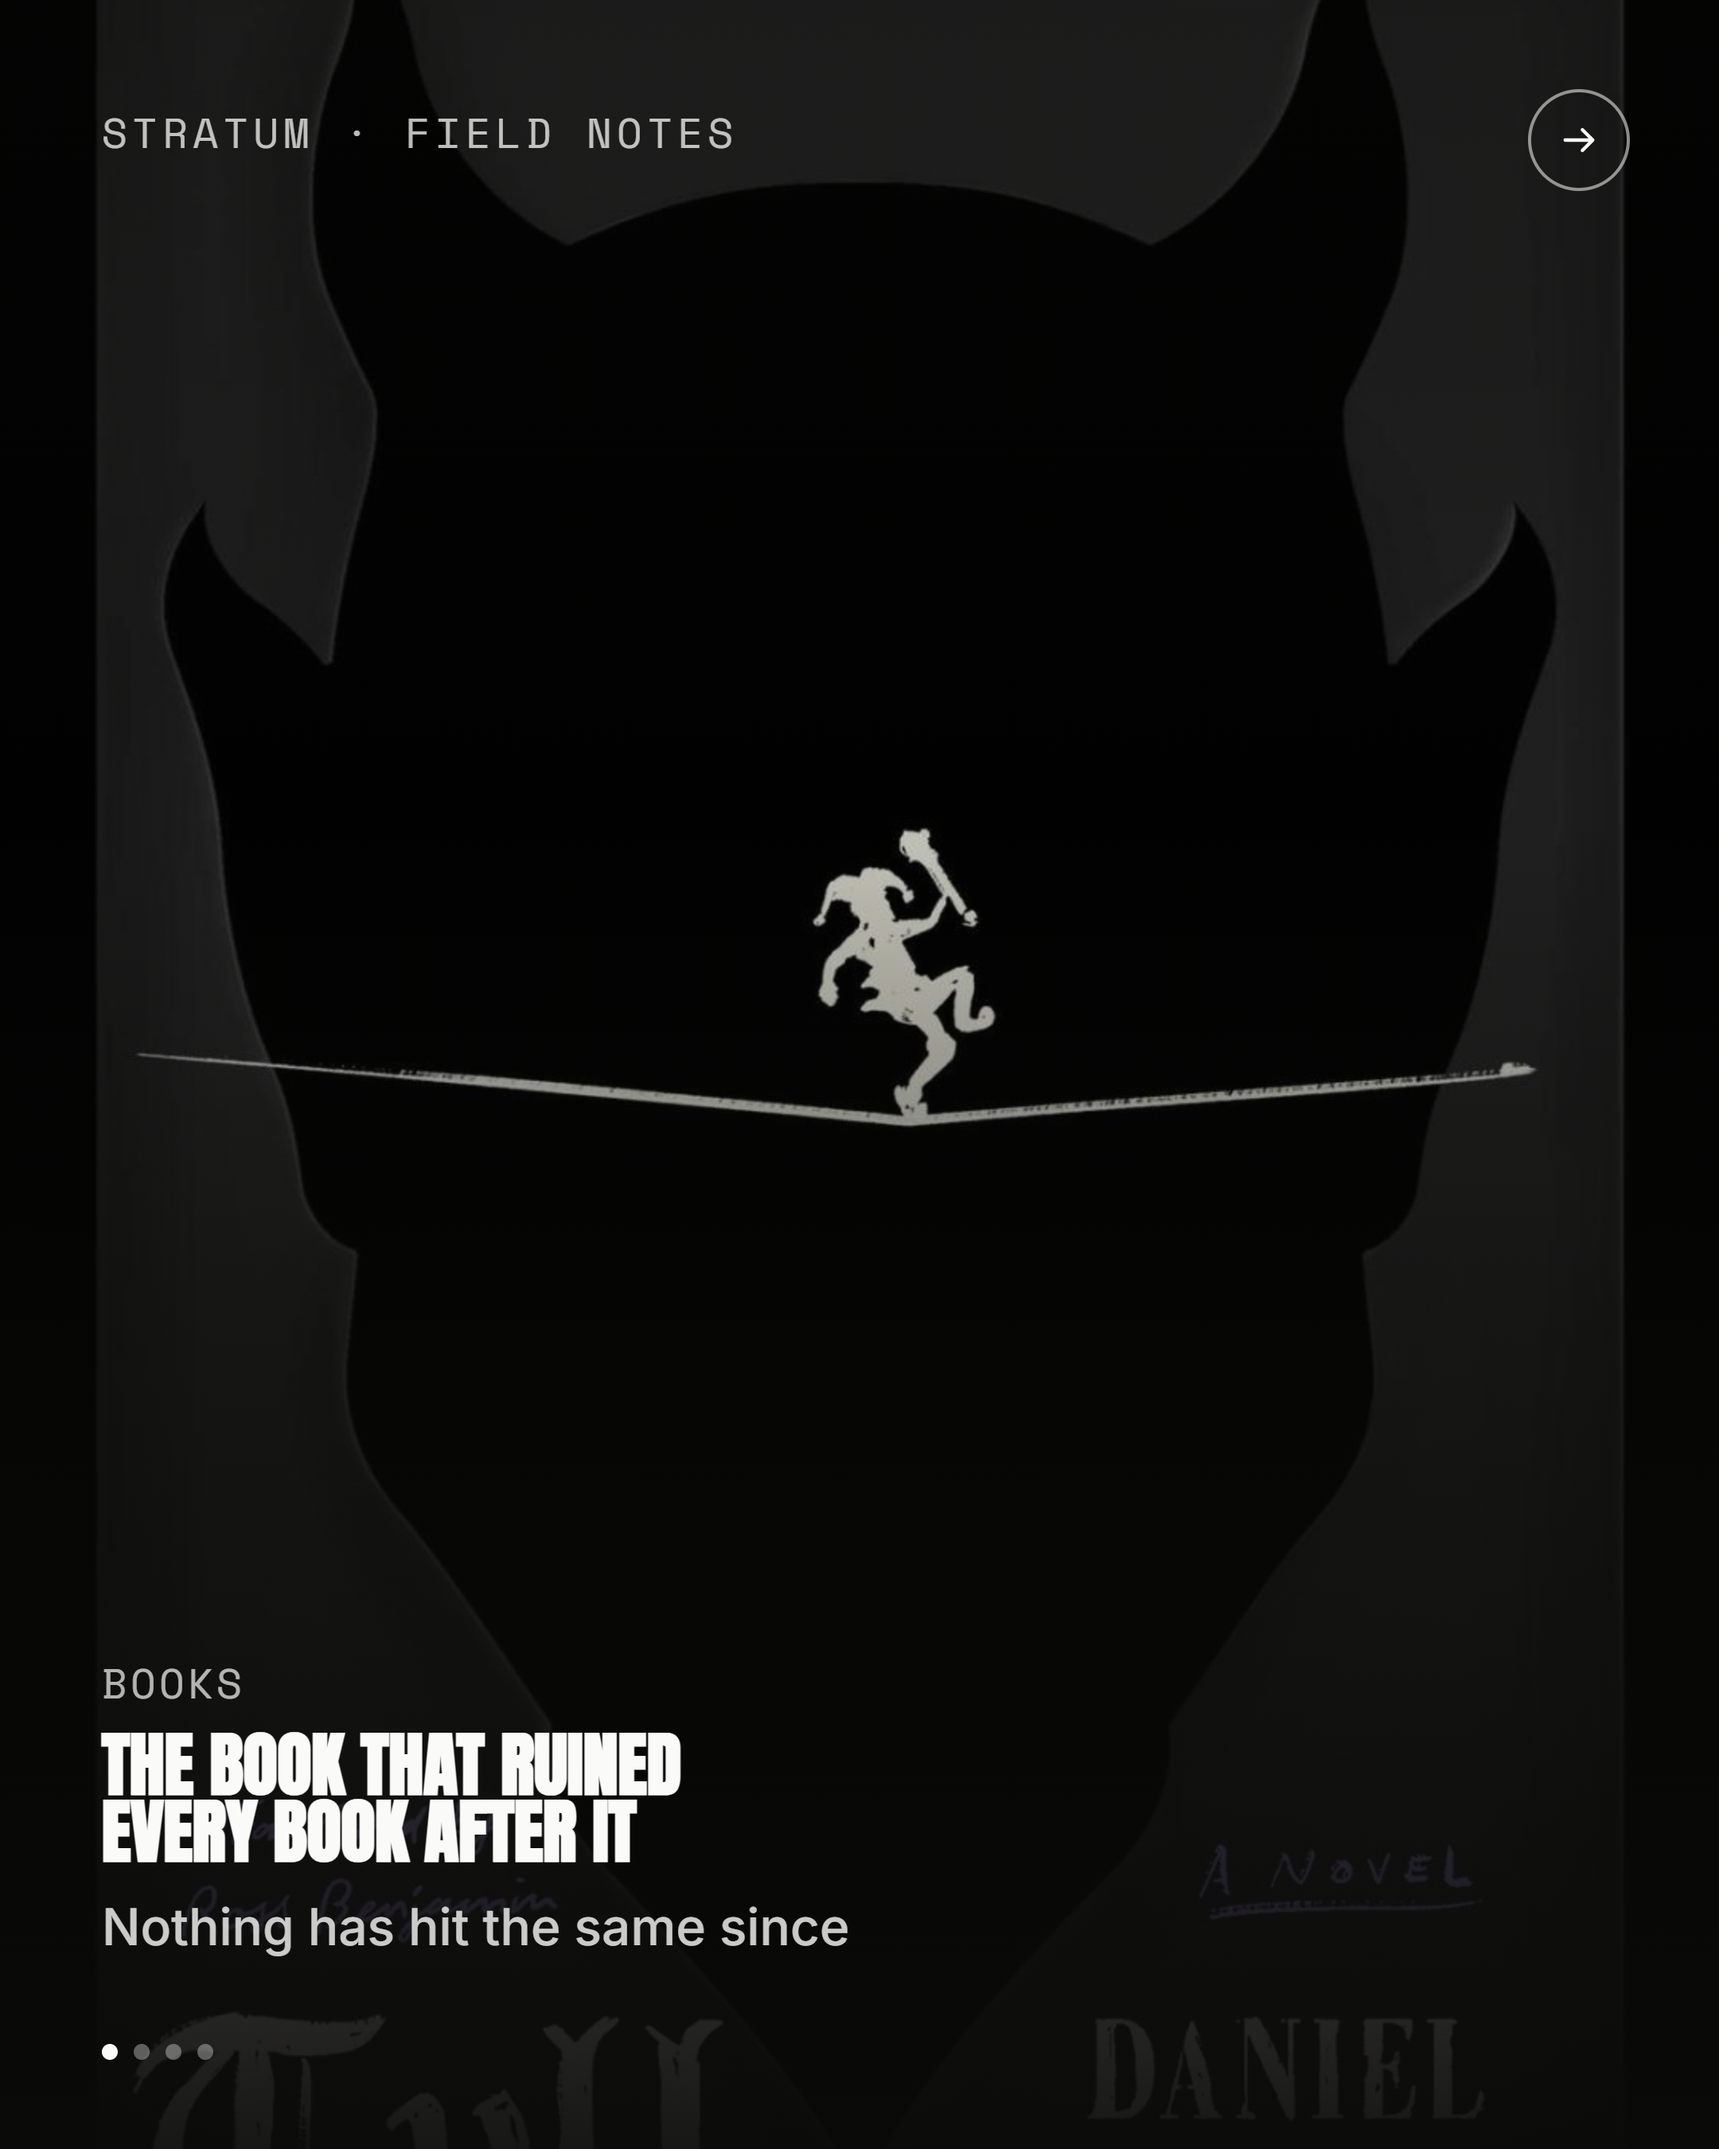
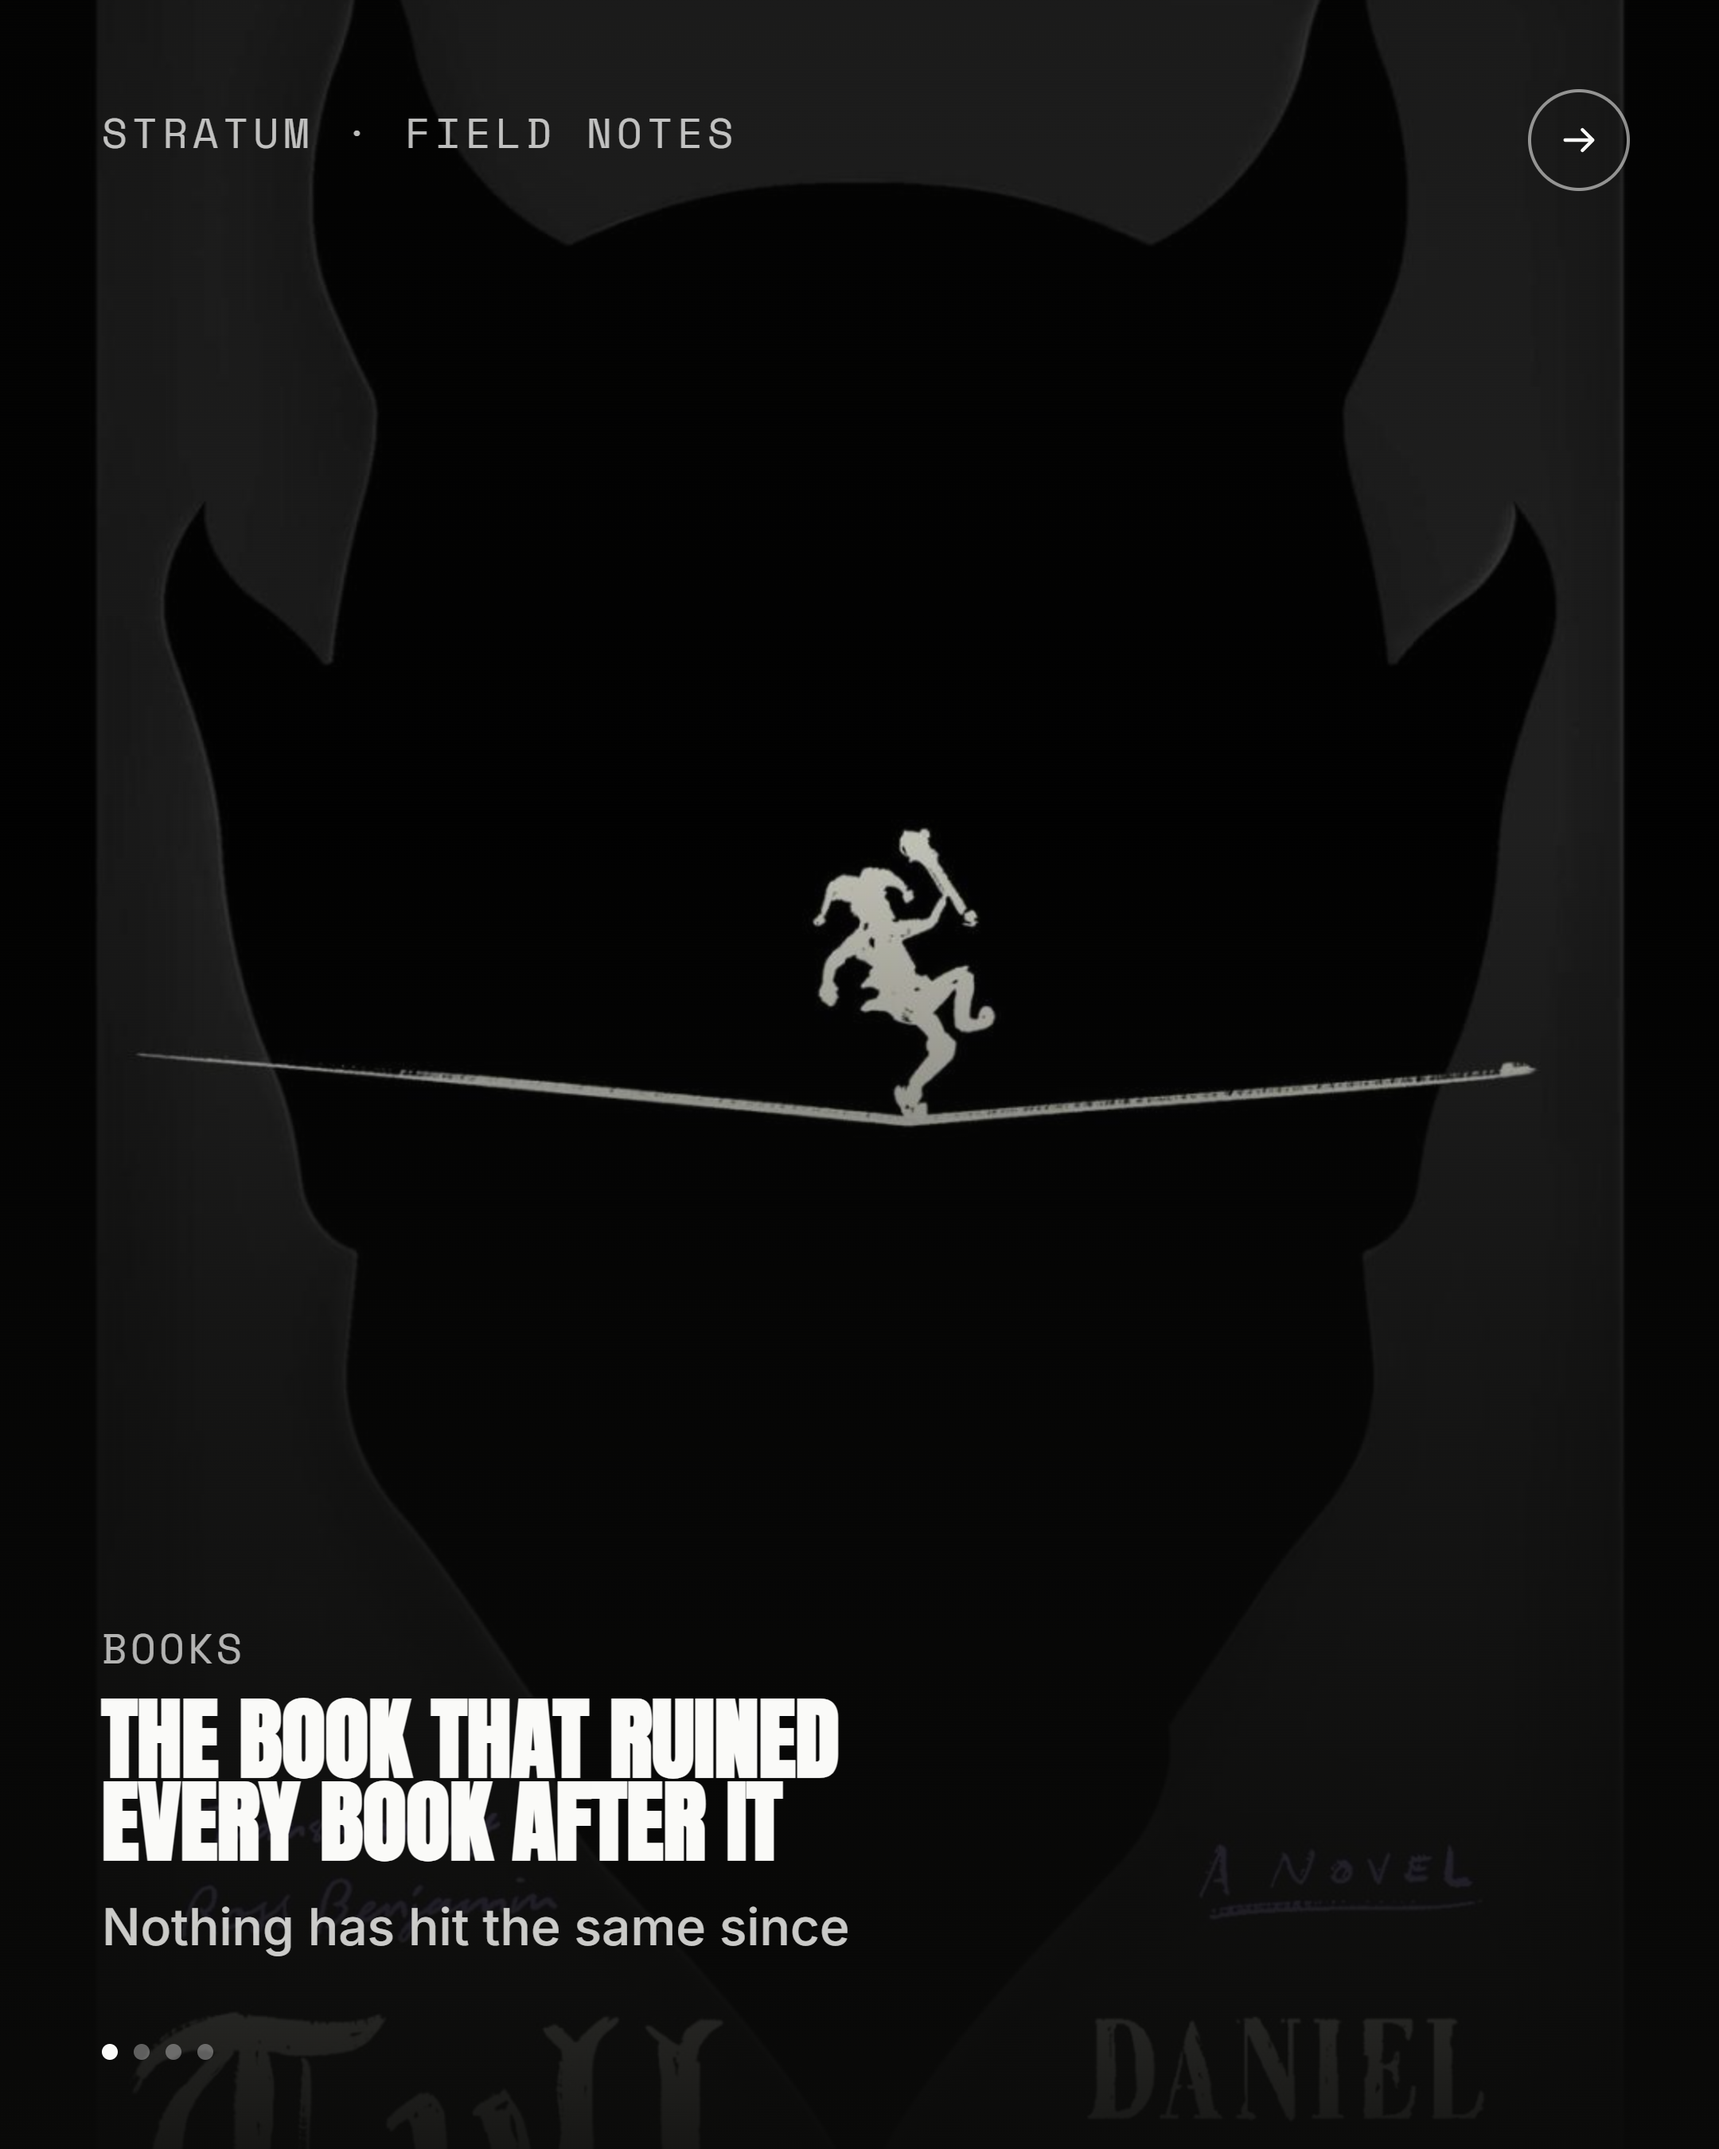
Updated poster title size

Changed region(s): [[0.062, 0.7467, 0.4963, 0.8711]]

diff --git a/templates.js b/templates.js
@@ -46,12 +46,24 @@ function cover({ kicker = 'Stratum', eyebrow = '', title, sub = '', bgImage = ''
       // text wraps automatically instead of overflowing, so a too-long
       // segment silently becomes 3-4 lines rather than spilling sideways.
       var desiredLines = (span.innerHTML.match(/<br\\s*\\/?>/gi) || []).length + 1;
-      var size = 96;
-      h1.style.fontSize = size + 'px';
-      function lineCount(){ return span.getClientRects().length; }
-      while (lineCount() > desiredLines && size > 44) {
-        size -= 2;
+      function fit(){
+        var size = 136;
         h1.style.fontSize = size + 'px';
+        function lineCount(){ return span.getClientRects().length; }
+        while (lineCount() > desiredLines && size > 56) {
+          size -= 2;
+          h1.style.fontSize = size + 'px';
+        }
+      }
+      // Run only after the web font has actually finished loading. Fitting
+      // against a temporary fallback font (during load, or if the font
+      // request is ever blocked/slow) measures the wrong glyph widths and
+      // locks in a size that's too small once the real font swaps in.
+      if (document.fonts && document.fonts.ready) {
+        document.fonts.ready.then(function(){ fit(); h1.dataset.fitted = 'true'; });
+      } else {
+        fit();
+        h1.dataset.fitted = 'true';
       }
     })();
   </script>`;

diff --git a/render.js b/render.js
@@ -86,6 +86,17 @@ async function main() {
       const tmpFile = path.join(TMP_DIR, `${carousel.slug}-${i}.html`);
       fs.writeFileSync(tmpFile, html);
       await page.goto(pathToFileURL(tmpFile).href, { waitUntil: 'networkidle0' });
+      if (slide.type === 'cover') {
+        // Wait for the title auto-fit script to actually finish (it runs
+        // after the web font loads), rather than trusting that networkidle0
+        // happened to land after it. Closes a real race condition, not a
+        // hypothetical one, caught this shrinking a title to nothing when
+        // font loading was slow.
+        await page.waitForFunction(
+          () => document.getElementById('cover-title')?.dataset.fitted === 'true',
+          { timeout: 5000 }
+        ).catch(() => console.warn(`  warning: title fit didn't confirm in time for slide ${i + 1} of ${carousel.slug}, check this one`));
+      }
 
       const filename = `slide-${String(i + 1).padStart(2, '0')}.png`;
       await page.screenshot({ path: path.join(dir, filename) });
